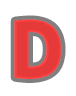
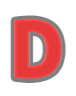
added numbers at the spacing to resultsGUI

diff --git a/app/src/main/java/ddr/view/ResultGUI.java b/app/src/main/java/ddr/view/ResultGUI.java
@@ -45,7 +45,7 @@ public class ResultGUI implements ActionListener{ //result screen after failing/
         //center the details png
         scorePanel.setPreferredSize(new Dimension(700,500));
         JPanel detailsPanel = new JPanel();
-        detailsPanel.setLayout(new OverlayLayout(detailsPanel));
+        detailsPanel.setLayout(new BoxLayout(detailsPanel, BoxLayout.Y_AXIS));
         detailsPanel.setOpaque(false);
         JPanel rankPane = new JPanel(new FlowLayout(FlowLayout.TRAILING));
         rankPane.setOpaque(false);
@@ -55,6 +55,12 @@ public class ResultGUI implements ActionListener{ //result screen after failing/
         deets.setImage(image);
         JLabel noMore = new JLabel(deets);
         detailsPanel.setPreferredSize(new Dimension(400, 333));
+
+        //overlay layout
+        JPanel overPanel = new JPanel();
+        overPanel.setLayout(new OverlayLayout(overPanel));
+        overPanel.setOpaque(false);
+
         //adding number labels
         scoreLabel = new JLabel(Integer.toString(gamer.getScore()));
         scoreLabel.setForeground(Color.RED);
@@ -62,11 +68,26 @@ public class ResultGUI implements ActionListener{ //result screen after failing/
         goodLabel = new JLabel(Integer.toString((int)gamer.getHits()));
         missLabel = new JLabel(Integer.toString((int)gamer.getMisses()));
 
-        detailsPanel.add(missLabel);
-        detailsPanel.add(goodLabel);
-        detailsPanel.add(comboLabel);
+        overPanel.add(detailsPanel);
+
+        detailsPanel.setLayout(null);
+    
+        //numb label moving
+        scoreLabel.setBounds(250, 60, 50, 50);
+        scoreLabel.setFont(new Font("Century Gothic", Font.BOLD, 24));
         detailsPanel.add(scoreLabel);
-        detailsPanel.add(noMore);
+        comboLabel.setBounds(250, 105, 50, 50);
+        comboLabel.setFont(new Font("Century Gothic", Font.BOLD, 24));
+        detailsPanel.add(comboLabel);
+        goodLabel.setBounds(250, 153, 50, 50);
+        goodLabel.setFont(new Font("Century Gothic", Font.BOLD, 24));
+        detailsPanel.add(goodLabel);
+        missLabel.setBounds(250, 200, 50, 50);
+        missLabel.setFont(new Font("Century Gothic", Font.BOLD, 24));
+        detailsPanel.add(missLabel);
+
+        overPanel.add(noMore);
+
         //scorePanel.add(deetsPane);
         //adding the images to a arraylist
         ranks = new ArrayList<String>();
@@ -78,16 +99,14 @@ public class ResultGUI implements ActionListener{ //result screen after failing/
 
 //this is where we should change the ranks.get index to specific rank 
         rank = new ImageIcon(getClass().getClassLoader().getResource(ranks.get(0)));
-        Image letter = rank.getImage().getScaledInstance(76, 96, Image.SCALE_DEFAULT);
+        Image letter = rank.getImage().getScaledInstance(92, 96, Image.SCALE_DEFAULT);
         rank.setImage(letter);
         rankLabel = new JLabel(rank);
-        rankPane.setPreferredSize(new Dimension(76,96));
+        rankPane.setPreferredSize(new Dimension(92,96));
         rankPane.add(rankLabel);
 
-        scorePanel.add(detailsPanel);
         scorePanel.add(rankPane);
-        
-
+        scorePanel.add(overPanel);
 
         // scorePanel.setOpaque(false);
 

diff --git a/app/src/main/java/ddr/model/Game.java b/app/src/main/java/ddr/model/Game.java
@@ -17,7 +17,6 @@ public class Game {
     float hits; 
     float misses;
 
-
     boolean flag; //flag for gameOver method
     ClearType clearType; //enum for clear type
 
